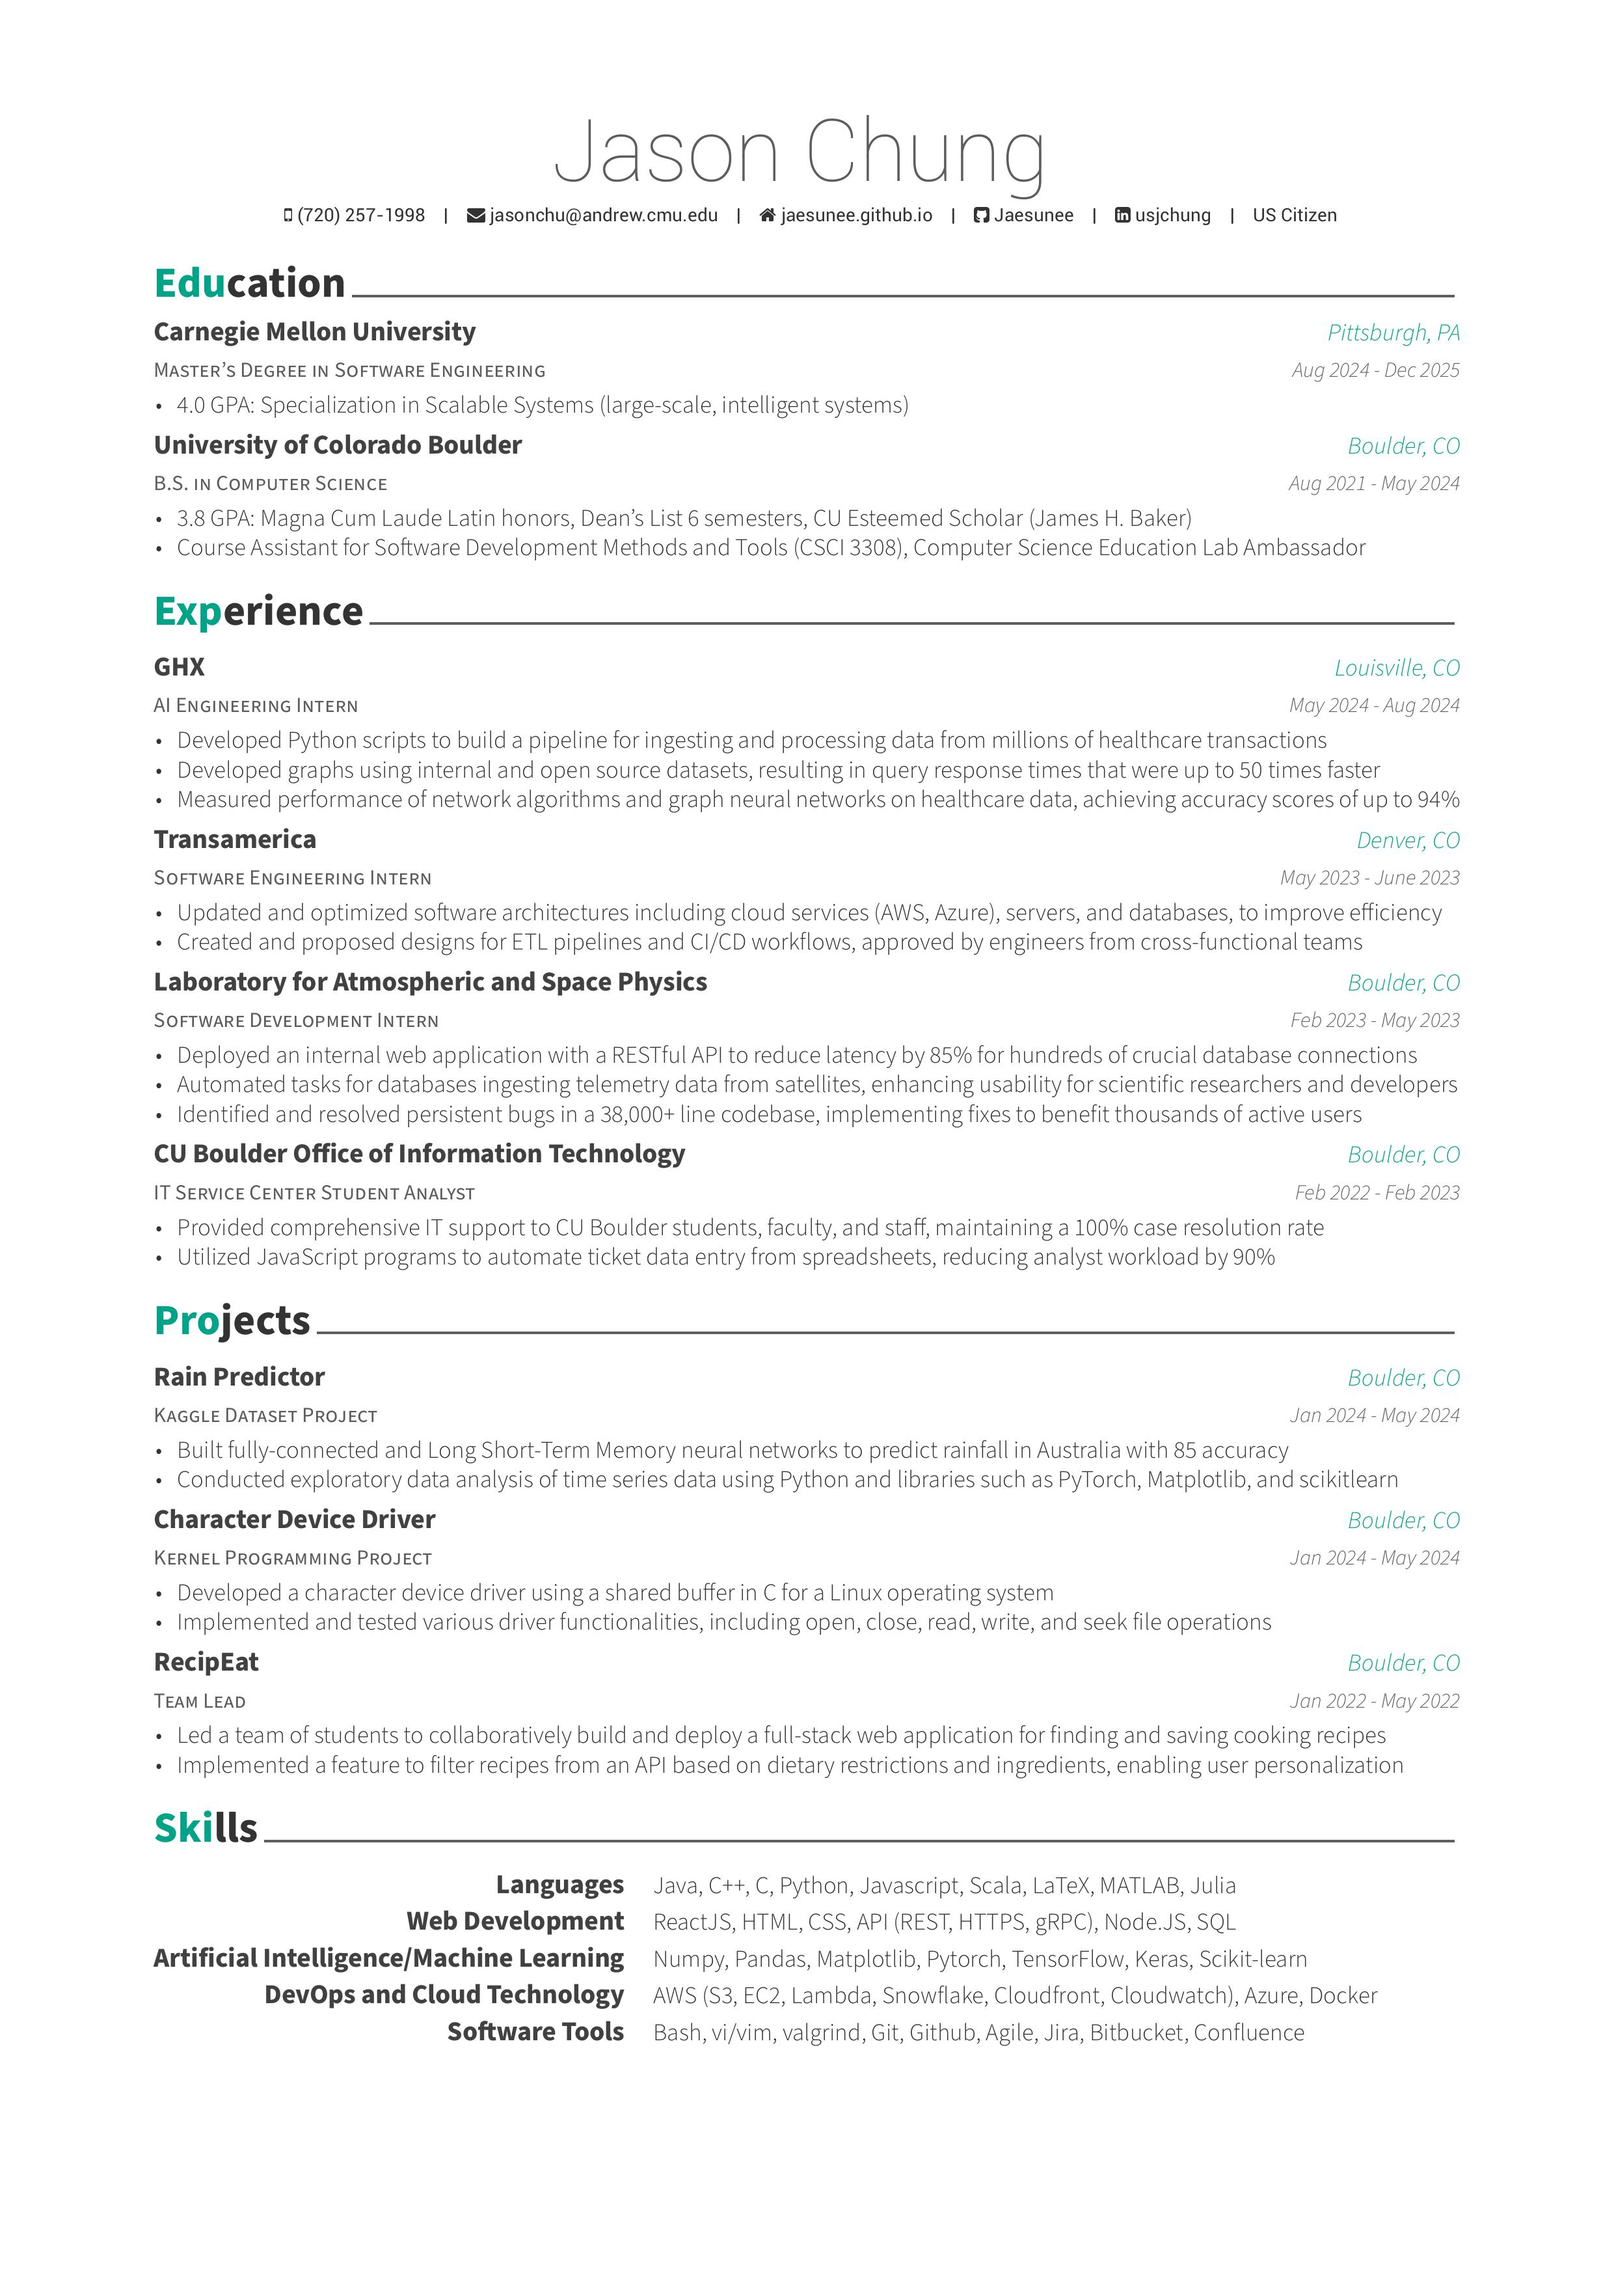
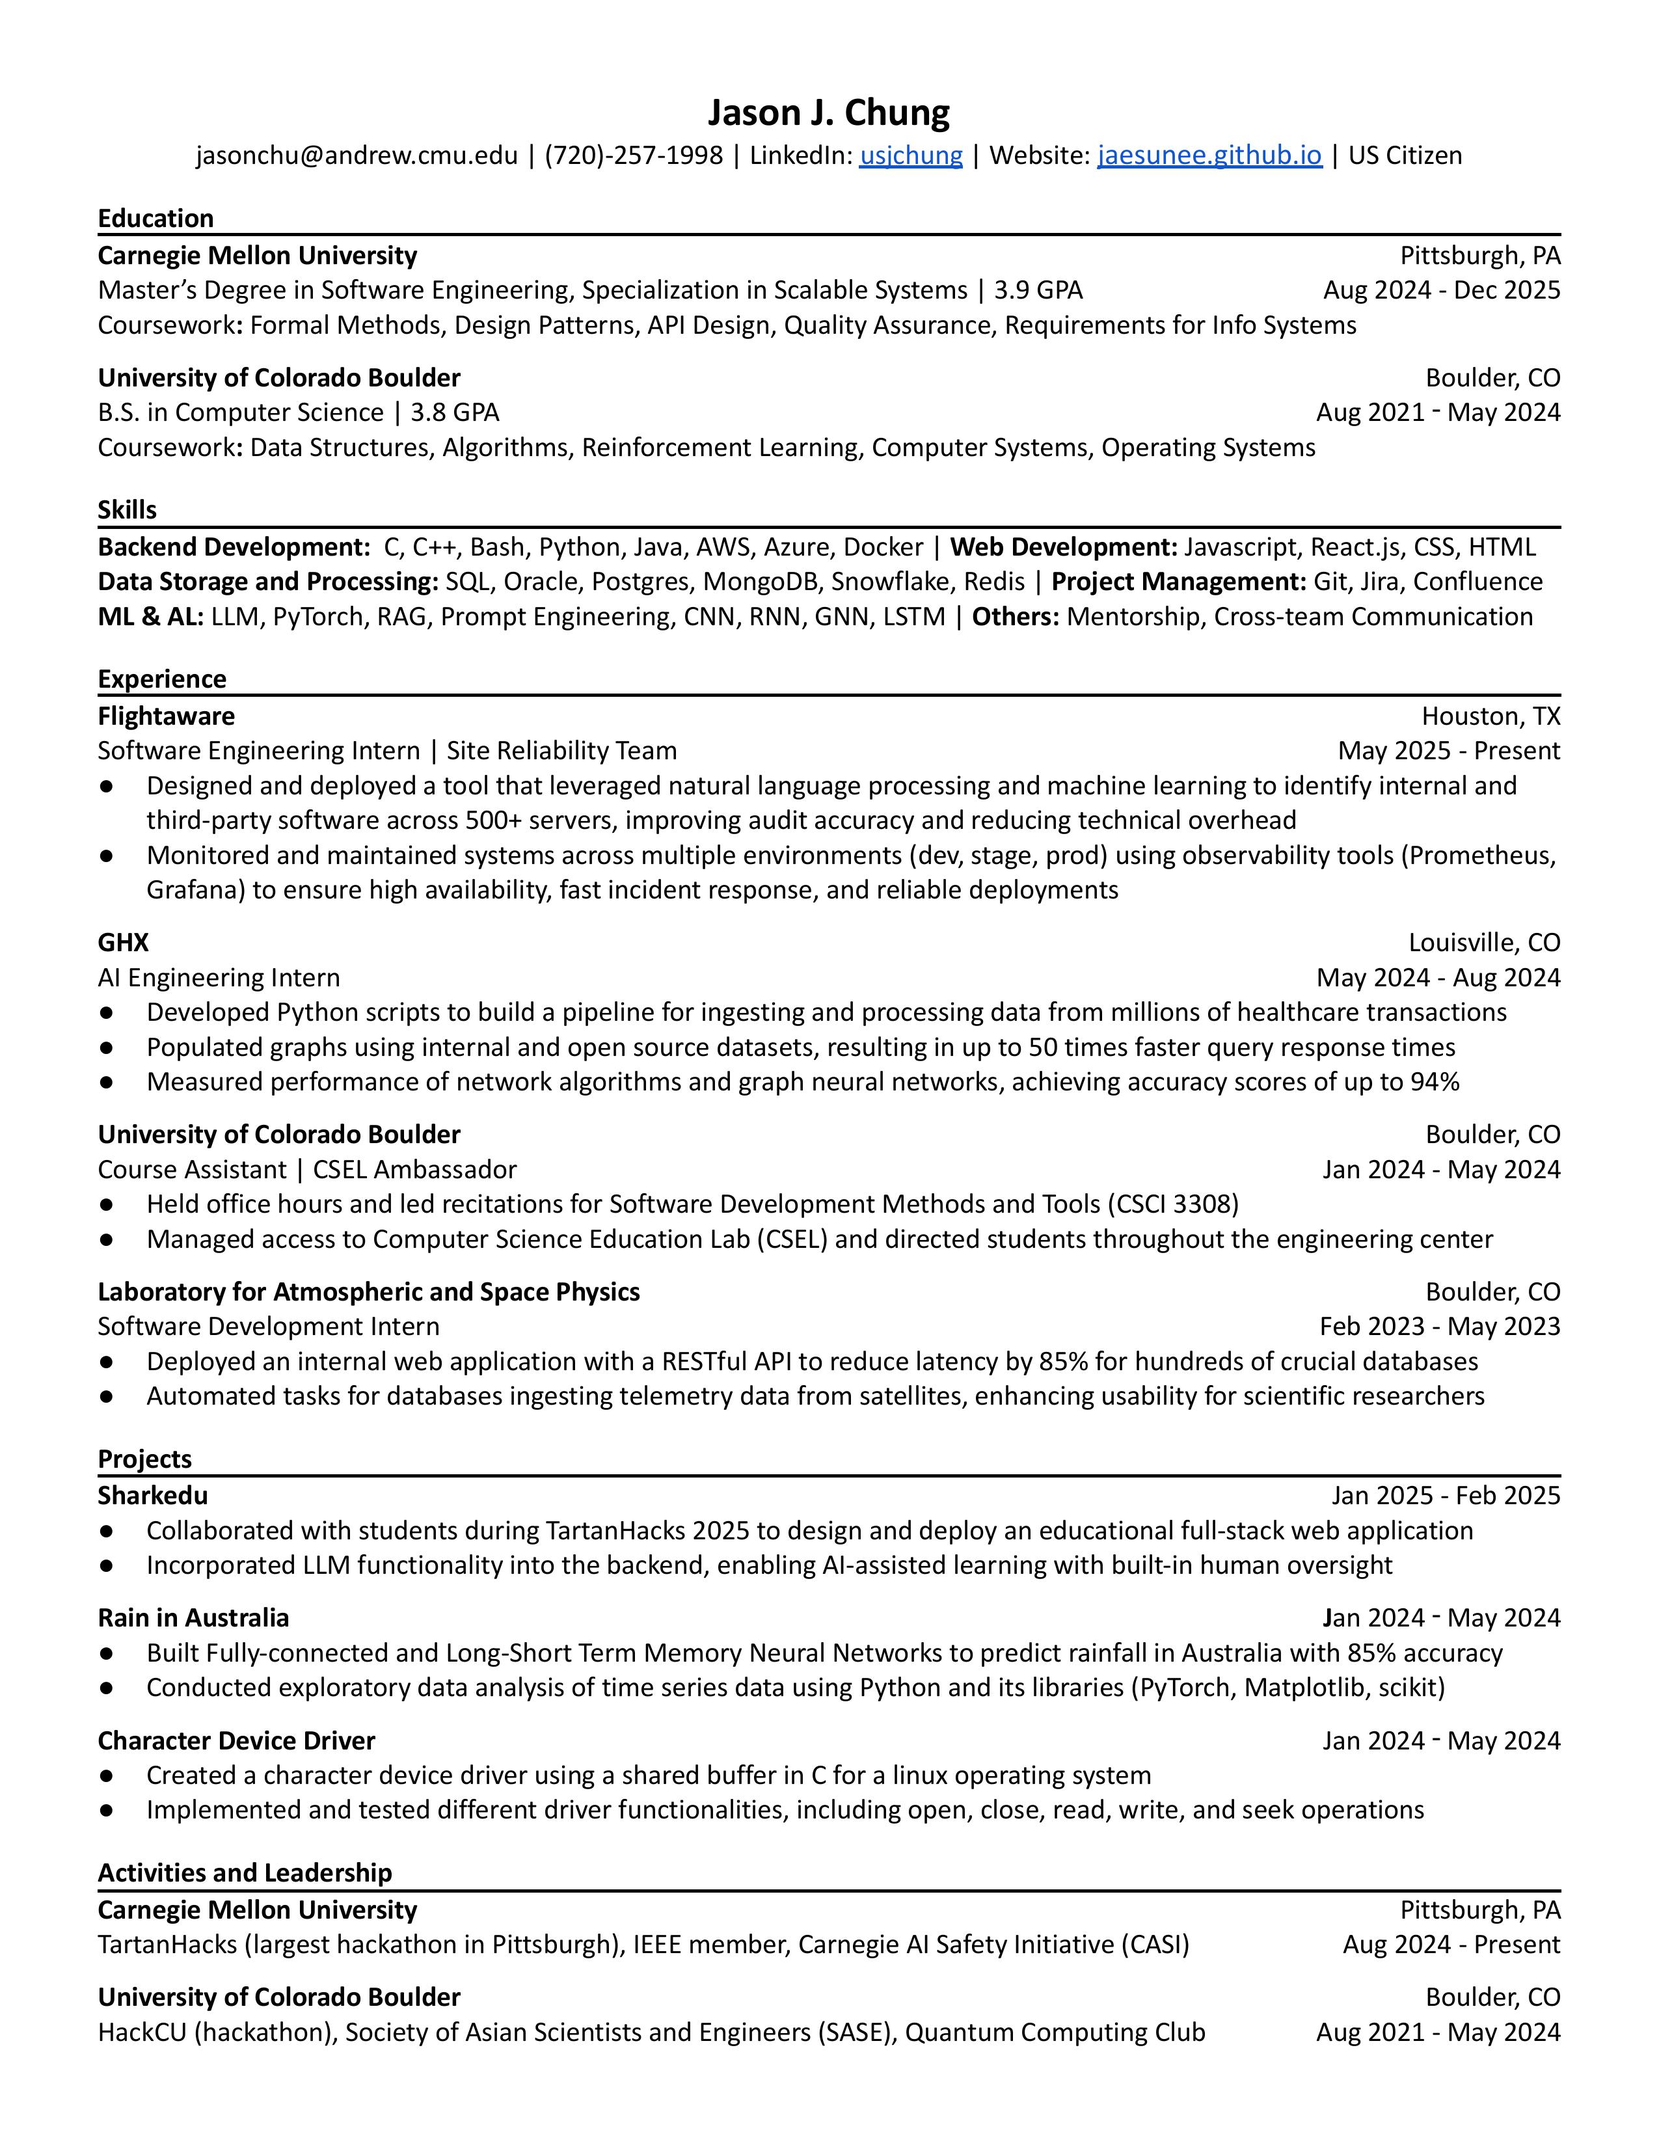
adding projectS: intellitag, petclinic

diff --git a/src/data.js b/src/data.js
@@ -1,5 +1,21 @@
 export const projects = [
     {
+        title: 'Intellitag',
+        subtitle: 'Python, NLP, Machine Learning, Flask, SQLite',
+        description:
+            'Explored how machine learning could help system administrators understand what kinds of software are running on a given server in a centralized, intelligent, and automated way. Designed and implemented the Intelligent Tagging System (ITS) using NLP and ML to classify services, automate tagging, and improve infrastructure metadata.',
+        image: './intellitag.png',
+        link: 'https://flightaware.engineering/intern-2025',
+    },
+    {
+        title: 'PetClinic',
+        subtitle: 'DevSecOps, Jenkins, SonarQube, OWASP ZAP, Prometheus, Grafana, Ansible',
+        description:
+            'Set up a DevSecOps pipeline for the Spring PetClinic application using containerized tools and automated deployment. Integrated CI/CD, static code analysis, security scanning, and real-time monitoring to demonstrate secure, automated software delivery.',
+        image: './devops.jpg',
+        link: 'https://github.com/Jaesunee/PetClinic',
+    },
+    {
         title: 'Healthcare Knowledge Graph',
         subtitle: 'Python, AWS Elastic Compute Cloud (EC2), AWS Snowflake, Neo4j',
         description:
